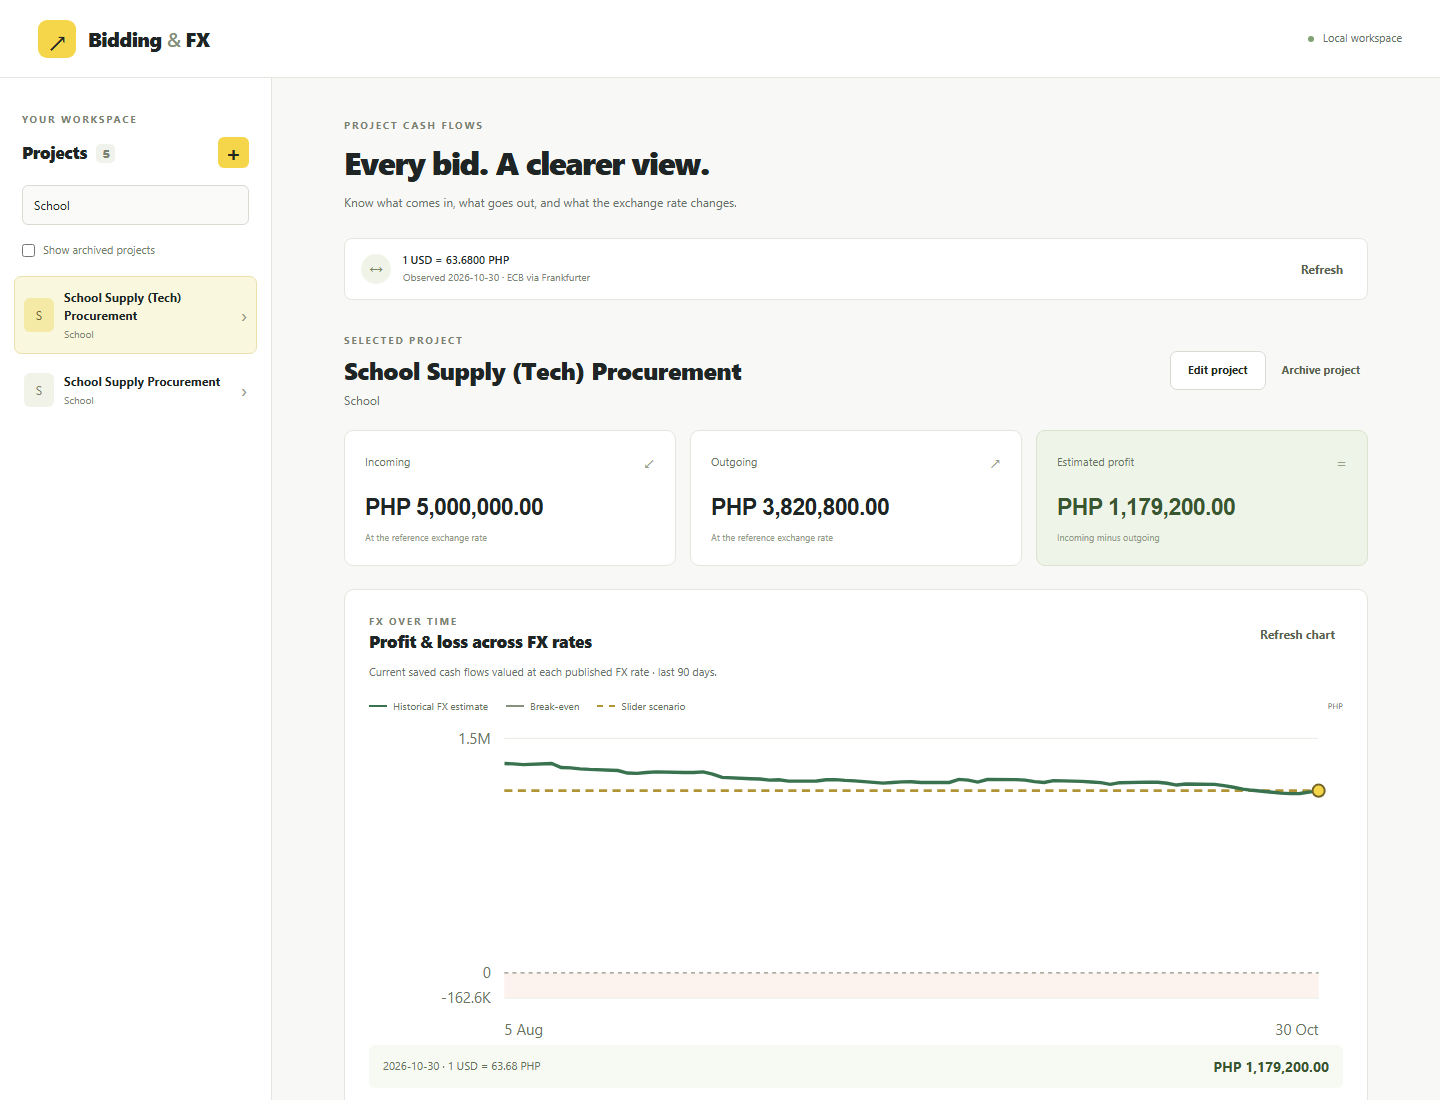
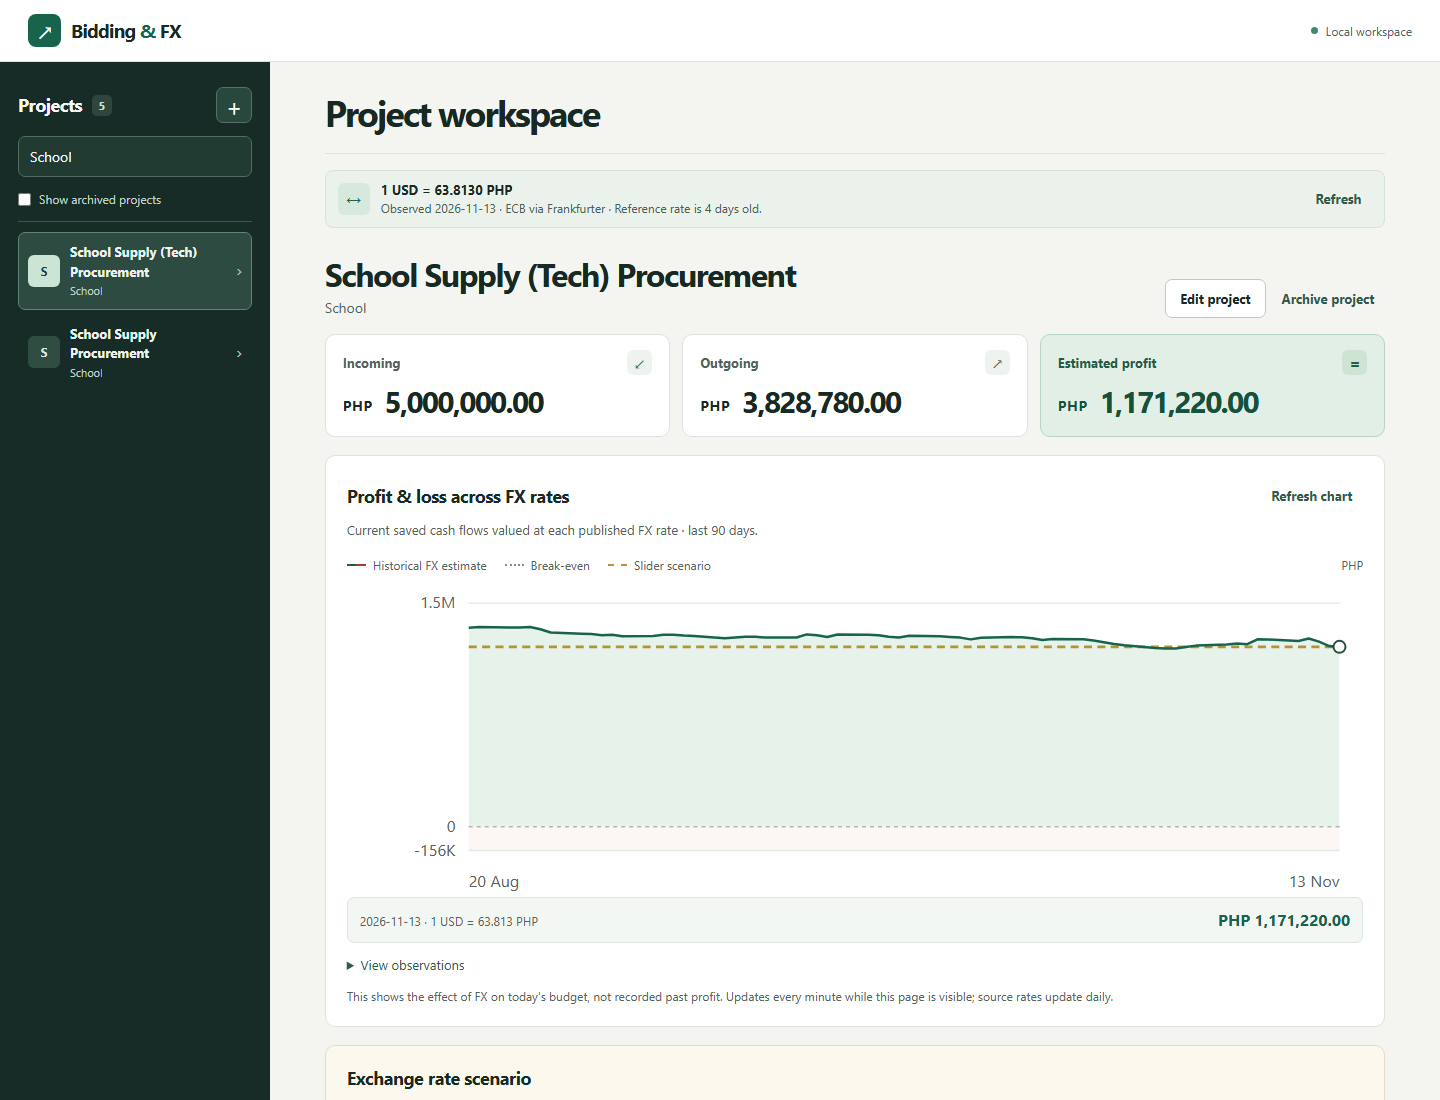
Refresh README screenshots for the portfolio dashboard
Add the portfolio overview and recapture the project chart, scenario, editor, and mobile views in the current interface. Match the captions to the reference rate and sample results captured from the app.

diff --git a/docs/screenshots/README.md b/docs/screenshots/README.md
@@ -1,27 +1,28 @@
 # Screenshot notes
 
-Captured on 2026-11-02 from the running application at localhost:15180.
-The two school projects use sample data for demonstration.
-The sidebar search is set to School. No saved cash flows were edited during capture.
+Captured on 2026-11-17 from the running app at localhost:15180. The portfolio
+dashboard uses five demo projects. The sidebar is filtered to School for the
+individual project views.
 
-- project-overview.png: School Supply (Tech) Procurement; PHP 5,000,000 incoming,
-  USD 60,000 outgoing; reference rate 63.68; estimated PHP 1,179,200 profit.
-- loss-overview.png: School Supply Procurement; PHP 5,000,000 incoming,
-  USD 94,000 outgoing; reference rate 63.68; estimated PHP 985,920 loss.
-- fx-profit-chart.png: The loss project's historical FX estimates with the slider
-  set to 50 PHP/USD. The dashed line is its hypothetical PHP 300,000 profit.
-- scenario-simulation.png: The same hypothetical rate: PHP 4,700,000 outgoing
-  against PHP 5,000,000 incoming. No source rates or saved amounts are overwritten.
-- cash-flow-editor.png: The loss project's existing budget, opened without saving.
-- mobile-view.png: The same project at a 390 by 844 viewport, captured full-page.
+- `portfolio-dashboard.png` shows the effect of a 50 PHP/USD scenario across
+  all five active projects. Total estimated profit rises from PHP 2,310,928 to
+  PHP 4,300,000.
+- `project-overview.png` shows School Supply (Tech) Procurement with PHP
+  5,000,000 incoming and USD 60,000 outgoing. Estimated profit is PHP 1,171,220.
+- `loss-overview.png` shows School Supply Procurement with PHP 5,000,000
+  incoming and USD 94,000 outgoing. Estimated loss is PHP 998,422.
+- `fx-profit-chart.png` shows the loss project's historical estimates and a
+  dashed scenario line at PHP 300,000 profit.
+- `scenario-simulation.png` shows how the 50 PHP/USD scenario converts the
+  supplier cost to PHP 4,700,000.
+- `cash-flow-editor.png` shows the loss project's saved cash flows in the editor.
+- `mobile-view.png` shows the loss project and profitable scenario at a
+  390 by 844 viewport, captured full-page.
 
-Published source observations in the screenshots span August through October
-2026, with the latest observation dated 2026-10-30. They came through the normal
-ECB/Frankfurter pipeline. Business amounts are sample inputs. These static images
-are not a live feed and do not represent realized accounting profit.
+The reference is 63.813 PHP/USD from 2026-11-13. The history chart shows
+published observations from 2026-08-20 through 2026-11-13. The estimates use
+planned sample cash flows. Desktop screenshots use a 1440 by 1100 viewport
+at device scale 1.
 
-The app order is summary cards, FX chart, slider simulation, then saved cash flows.
-Screenshots were captured at device scale 1; desktop viewport 1440 by 1100.
-If the UI or samples change, refresh these images and update the numerical captions
-in the root README together. Keep PNG assets here committed; generated browser
-reports and temporary capture scripts remain ignored.
+Refresh the image files and numerical captions together when the UI or
+sample data changes.

diff --git a/README.md b/README.md
@@ -13,7 +13,6 @@ saved amounts.
   shows the change in estimated profit from the published reference rate.
   Select a bar to open the project. Totals show their project counts and
   exclude budgets with missing amounts.
-
 - Saves your own projects and planned cash flows in PHP or USD.
 - Shows incoming total, outgoing total, and estimated profit in PHP.
 - Simulates FX changes with a slider and an exact numeric input.
@@ -35,16 +34,25 @@ observations. The chart always displays the latest 90 calendar days.
 
 ## Screenshots
 
-Captured from the running local app on **2026-11-02**, using two
-school sample projects and published ECB/Frankfurter observations. The sidebar
-is filtered to those school projects. Rates and amounts are snapshots, not a live feed.
+Captured from the running local app on **2026-11-17** using sample projects and
+published ECB/Frankfurter observations. The reference rate shown is
+**63.813 PHP per USD**, observed on **2026-11-13**.
+
+### Portfolio dashboard
+
+One shared rate compares all five active sample projects. At **50 PHP per USD**,
+the estimated portfolio profit rises from **PHP 2,310,928** to **PHP 4,300,000**.
+The bars show which projects gain or lose estimated profit. Select a bar to open
+its project details.
+
+![Portfolio dashboard comparing five sample projects at 50 PHP per USD, with gains and losses on opposite sides of zero](docs/screenshots/portfolio-dashboard.png)
 
 ### Project overview
 
 Select a project to see incoming cash flows, outgoing cash flows, estimated
 profit, and the FX history chart. **School Supply (Tech) Procurement** has
 PHP 5,000,000 incoming and USD 60,000 outgoing. At the displayed reference rate
-of **63.68 PHP per USD**, its estimated profit is **PHP 1,179,200**.
+of **63.813 PHP per USD**, its estimated profit is **PHP 1,171,220**.
 
 ![Profitable school technology procurement sample with PHP totals and historical FX chart](docs/screenshots/project-overview.png)
 
@@ -57,7 +65,7 @@ gold line is the estimated profit or loss at the slider's hypothetical rate.
 
 **School Supply Procurement** has the same PHP 5,000,000 income but USD 94,000
 in supplier costs. At the displayed reference rate it has an estimated
-**PHP 985,920 loss**. Its historical FX estimates are shown in red. The dashed
+**PHP 998,422 loss**. Its historical FX estimates are shown in red. The dashed
 gold line shows how a hypothetical **50 PHP per USD** rate would instead produce
 a **PHP 300,000 profit**.
 
@@ -76,9 +84,9 @@ published reference rates.
 <summary>Loss overview, cash-flow editor, and mobile layout</summary>
 
 The second school project at the displayed reference rate, before changing the
-slider, shows its estimated PHP 985,920 loss:
+slider, shows its estimated PHP 998,422 loss.
 
-![School procurement overview showing a PHP 985,920 estimated loss](docs/screenshots/loss-overview.png)
+![School procurement overview showing a PHP 998,422 estimated loss](docs/screenshots/loss-overview.png)
 
 Add or edit incoming and outgoing amounts independently, choosing PHP or USD for
 each line. Expected dates are optional; blank amounts remain unknown.
